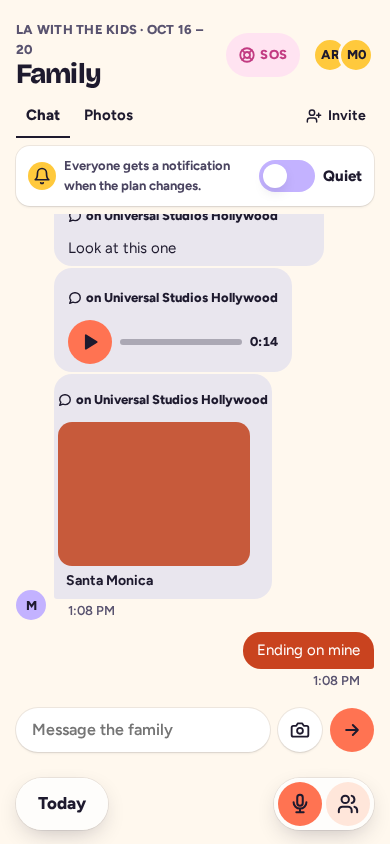
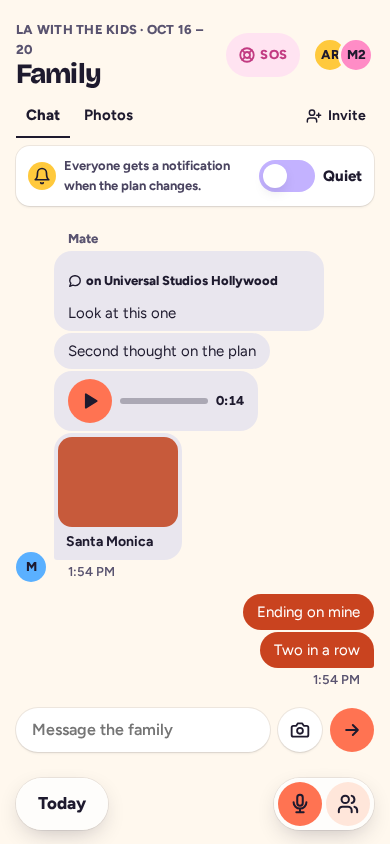
F-178: shared runs.js for the plan pane and Earlier, tag once per run, bigger panel bubbles, more tests

diff --git a/assets/js/thread.js b/assets/js/thread.js
@@ -107,22 +107,8 @@
     old._adopt = true;                                    // delivered from now on, whatever the reply does
     adopt(old, fresh);
   }
-  // Runs (F-178): which messages are the first and last of a run from one person (data-by; a plan change or another person ends it). The server draws the same classes
-  // (tab_family.fragment); this keeps them right when a message arrives, is sent here or "Earlier" puts older ones above, so every one of those is one watch on the list.
-  function runs() {
-    var prev = null;
-    Array.prototype.forEach.call(thread.children, function (el) {
-      if (!el.classList.contains("ft-msg")) { prev = null; return; }
-      if (prev) prev.classList.toggle("ft-last", prev.getAttribute("data-by") !== el.getAttribute("data-by"));
-      el.classList.toggle("ft-first", !prev || prev.getAttribute("data-by") !== el.getAttribute("data-by"));
-      el.classList.add("ft-last");
-      prev = el;
-    });
-  }
-  runs();
-  var watch = new MutationObserver(runs);
-  watch.observe(thread, { childList: true });
-  undo.push(function () { watch.disconnect(); });
+  var runs = function () { if (window.GA && GA.runs) GA.runs.fix(thread); };      // (assets/js/runs.js: the first and last of each run; it watches the list too)
+  if (window.GA && GA.runs) { GA.runs.watch(thread); undo.push(function () { if (thread._runs) { thread._runs.disconnect(); thread._runs = null; } }); }
   function merge(html, n, mine) {
     if (!html.trim() || n <= last) return;
     var stick = mine || nearBottom();
@@ -190,7 +176,7 @@
     var bub = document.createElement("div"); bub.className = "ft-bub"; bub.textContent = value;
     var state = document.createElement("span"); state.className = "ft-time ft-state"; state.textContent = "Sending";
     stack.appendChild(bub); stack.appendChild(state); el.appendChild(stack);
-    el.setAttribute("data-by", "me");
+    el.setAttribute("data-by", "me|" + (form && form.elements.act ? form.elements.act.value : "") + "|" + (form && form.elements.part ? form.elements.part.value : ""));
     el.setAttribute("data-text", value);
     el.setAttribute("data-cid", newId());
     return el;

diff --git a/assets/js/day_family.js b/assets/js/day_family.js
@@ -139,14 +139,15 @@
     if (!b || !t || !first || b.disabled) return;
     e.preventDefault();
     b.disabled = true;
-    var high = t.scrollHeight, top = t.scrollTop;
+    var rel = function () { return first.getBoundingClientRect().top - t.getBoundingClientRect().top; }, seen = rel();      // where the oldest message shown now sits: it stays there (a name or a time line it loses to the regrouping is above or inside it)
     fetch(b.dataset.older + '&before=' + encodeURIComponent(first.dataset.n), { credentials: 'same-origin', headers: { Accept: 'text/html' } }).then(function (r) {
       if (!r.ok) throw new Error('no earlier');
       return r.text().then(function (h) { return { h: h, more: r.headers.get('X-Thread-More') === '1' }; });
     }).then(function (got) {
       if (!t.isConnected) return;
       t.insertBefore(parse(got.h), t.firstChild);
-      t.scrollTop = top + (t.scrollHeight - high);
+      if (window.GA && GA.runs) GA.runs.fix(t);      // (F-178: the older page may end with the person who wrote the first message shown: regroup before the scroll is put back)
+      t.scrollTop += rel() - seen;
       if (got.more) b.disabled = false; else { b.remove(); }
     }, function () { b.disabled = false; });
   });
@@ -246,6 +247,7 @@
       planBusy = false;
       if (!got || !msgs.isConnected || !got.t.trim()) return;
       var near = pp.scrollHeight - pp.scrollTop - pp.clientHeight < 160, added = 0, nodes = parse(got.t);
+      if (window.GA && GA.runs) GA.runs.watch(msgs);      // (F-178)
       Array.prototype.slice.call(nodes.children).forEach(function (n) {
         var id = n.getAttribute('data-n');
         if (id && msgs.querySelector('[data-n="' + id + '"]')) return;      // already here (mine, just sent)

diff --git a/assets/js/runs.js b/assets/js/runs.js
@@ -1,0 +1,26 @@
+/* Runs in a chat (F-178): which messages are the first and last of a run from one person (data-by: who, plan and part; a plan change or anyone else ends it). The server draws the same
+   classes (tab_family.fragment); this keeps them right wherever a script adds or moves messages: thread.js (the Family tab, a plan's chat, the panel's Family), and the plan pane's own
+   chat (day_dock.js, day_family.js). GA.runs.fix(list) regroups now; GA.runs.watch(list) does it after every change to the list's children (once per list; it ends with the list). */
+(function () {
+  "use strict";
+  var GA = window.GA = window.GA || {};
+  if (GA.runs) return;
+  function fix(list) {
+    var prev = null;
+    Array.prototype.forEach.call(list.children, function (el) {
+      if (!el.classList.contains("ft-msg")) { prev = null; return; }
+      var same = prev && prev.getAttribute("data-by") === el.getAttribute("data-by");
+      if (prev) prev.classList.toggle("ft-last", !same);
+      el.classList.toggle("ft-first", !same);
+      el.classList.add("ft-last");
+      prev = el;
+    });
+  }
+  function watch(list) {
+    if (!list || list._runs) return;
+    list._runs = new MutationObserver(function () { fix(list); });
+    list._runs.observe(list, { childList: true });
+    fix(list);
+  }
+  GA.runs = { fix: fix, watch: watch };
+})();

diff --git a/assets/css/day_family.css b/assets/css/day_family.css
@@ -29,7 +29,9 @@
   /* the chat: the Family tab's bubbles, in the panel's colours; this list is the one that scrolls (thread.js scrolls it to its newest message) */
   .cz .cz-fam-msgs { flex: 1 1 auto; min-height: 6rem; overflow-y: auto; overscroll-behavior: contain; padding: 0.25rem 0; scrollbar-width: thin; }
   .cz .cz-fam-msgs .ft-msg { max-width: 92%; }
-  .cz .cz-fam-msgs .ft-bub { font-size: var(--cz-body); }
+  .cz .cz-fam-msgs :is(.ft-bub, .ft-cap) { font-size: max(var(--cz-body), 1.0833rem); }
+  .cz .cz-fam-msgs .ft-bub { padding: 0.625rem 1rem; line-height: 1.4; }
+  .cz .cz-fam-msgs :is(.ft-nm, .ft-time) { font-size: var(--cz-small); }
   .cz .cz-fam .cz-pp-none { flex-shrink: 0; margin: 0; }
   .cz .cz-fam-older { flex-shrink: 0; align-self: center; min-height: 4rem; padding: 0 1rem; border: 0; border-radius: var(--r-pill); background: transparent; font: inherit; font-size: var(--cz-small); font-weight: 800; color: var(--ink-2); cursor: pointer; }
   .cz .cz-fam-older:hover { background: var(--paper); color: var(--ink); }

diff --git a/assets/css/thread.css b/assets/css/thread.css
@@ -40,7 +40,7 @@
 .ft-msg:not(.ft-me).ft-last :is(.ft-bub, .ft-photo-bub) { border-bottom-left-radius: 0.1875rem; }      /* the tail: the corner by the avatar (or the edge) comes to a point */
 .ft-me.ft-last :is(.ft-bub, .ft-photo-bub) { border-bottom-right-radius: 0.1875rem; }
 .ft-nm { display: block; padding: 0 0.875rem 0.125rem; font-size: max(var(--text-min), 0.8125rem); font-weight: 800; color: var(--ink-3); }
-.ft-msg:not(.ft-first) .ft-nm { display: none; }
+.ft-msg:not(.ft-first) :is(.ft-nm, .ft-on) { display: none; }
 .ft-time { display: block; padding: 0.125rem 0.875rem 0; font-size: max(var(--text-min), 0.75rem); font-weight: 600; color: var(--ink-3); }      /* quiet: small, under the run's last bubble; the others show it as a tooltip (title) */
 .ft-msg:not(.ft-last):not(.is-sending):not(.is-failed) .ft-time { display: none; }
 .ft-photo { display: block; width: 100%; max-width: 12rem; border-radius: 0.875rem; }

diff --git a/assets/css/day_dock.css b/assets/css/day_dock.css
@@ -186,7 +186,9 @@
 
   .cz .cz-pp-msgs { padding-top: 0.25rem; }
   .cz .cz-pp-msgs .ft-msg { max-width: 92%; }
-  .cz .cz-pp-msgs .ft-bub { font-size: var(--cz-body); }
+  .cz .cz-pp-msgs :is(.ft-bub, .ft-cap) { font-size: max(var(--cz-body), 1.0833rem); }
+  .cz .cz-pp-msgs .ft-bub { padding: 0.625rem 1rem; line-height: 1.4; }
+  .cz .cz-pp-msgs :is(.ft-nm, .ft-time) { font-size: var(--cz-small); }
 
   .cz .cz-pp-foot { flex-shrink: 0; display: flex; flex-wrap: wrap; align-items: center; gap: 0.5rem; margin: 0 0.75rem 0.75rem; min-height: 3rem; padding: 0.25rem 0.375rem 0.25rem 1rem; border-radius: 1.5rem; background: var(--paper); box-shadow: inset 0 0 0 0.0625rem var(--line); }
   .cz .cz-pp-text { flex: 1; min-width: 0; min-height: 2.5rem; padding: 0; border: 0; background: transparent; font: 600 var(--cz-body) var(--font-body); color: var(--ink); }

diff --git a/assets/js/day_dock.js b/assets/js/day_dock.js
@@ -280,6 +280,7 @@
       var msgs = document.getElementById('cz-pp-msgs'), quiet = document.getElementById('cz-pp-quiet'), pane = f.previousElementSibling;
       if (msgs) {
         var nodes = parse(got.t);
+        if (window.GA && GA.runs) GA.runs.watch(msgs);      // (F-178: the new bubble joins or starts a run)
         while (nodes.firstChild) msgs.appendChild(nodes.firstChild);
         if (got.last) { msgs.dataset.last = got.last; f.elements.since.value = got.last; }
       }

diff --git a/tests_browser/test_bubbles_runs.py b/tests_browser/test_bubbles_runs.py
@@ -1,0 +1,94 @@
+"""F-178: where runs are kept right by script after the first draw: the plan pane's own chat (day_dock.js, day_family.js), "Earlier messages", a failed send's state line, and a plan change
+line ending a run. Helpers and fixtures are test_bubbles.py's."""
+from playwright.sync_api import expect
+
+from tests_browser.helpers import seed_plan
+from tests_browser.test_bubbles import CORAL_DEEP, contrast, desk, page_colour, runs, say, seen, shot  # noqa: F401 - fixtures
+from tests_browser.test_day_grid import open_day
+from tests_browser.test_family_panel import SATURDAY, dock, mates, open_family, park, thread  # noqa: F401 - fixtures
+from tests_browser.test_thread import pair  # noqa: F401 - fixture
+from tests_browser.test_trip_canvas import canvas_page, model  # noqa: F401 - fixtures
+
+
+def open_plan_pane(desk):
+    open_day(desk, SATURDAY)
+    act = park(desk)
+    b = desk.locator(f'.cz-gb[data-act="{act}"]')
+    b.scroll_into_view_if_needed()
+    box = b.bounding_box()
+    desk.mouse.click(box["x"] + box["width"] * 0.7, box["y"] + min(box["height"] * 0.6, 90))
+    expect(desk.locator("#cz-pp-msgs")).to_be_visible()
+    return act, desk.locator("#cz-pp-msgs")
+
+
+def test_the_plan_panes_own_chat_groups_runs_for_polled_and_sent_messages(desk, mates):
+    mate = mates(desk)
+    act, th = open_plan_pane(desk)
+    for i, t in enumerate(("Plan one", "Plan two", "Plan three"), 1):
+        mate.say(t, act=act)
+        expect(th.locator(".ft-bub")).to_have_count(i, timeout=9000)                     # polled in one at a time
+    assert runs(th) == ["ft-first", "", "ft-last"]
+    assert [s["name"] for s in seen(th.locator(".ft-msg"))] == [True, False, False]
+    for t in ("Mine one", "Mine two"):
+        desk.locator("#cz-dock .cz-pp-text").fill(t)
+        desk.locator("#cz-dock .cz-pp-send").click()
+        expect(th.get_by_text(t)).to_be_visible()
+    assert runs(th) == ["ft-first", "", "ft-last", "ft-first", "ft-last"]
+    st = seen(th.locator(".ft-me"))
+    assert [s["tail"] for s in st] == [False, True] and [s["time"] for s in st] == [False, True], st
+    assert [s["avatar"] for s in seen(th.locator(".ft-msg:not(.ft-me)"))] == [False, False, True]
+    shot(desk, "plan-pane-1440.png")
+
+
+def test_earlier_messages_from_the_same_person_regroup_without_the_view_jumping(desk, mates):
+    mate = mates(desk)
+    open_day(desk, SATURDAY)
+    for i in range(1, 71):
+        mate.say(f"Message {i:02d}")
+    open_day(desk, SATURDAY)
+    open_family(desk)
+    th = thread(desk)
+    expect(th.locator(".ft-bub")).to_have_count(30)
+    th.evaluate("e => { e.scrollTop = 0; }")                                                  # reading the oldest one shown
+    first = th.locator(".ft-msg").first
+    n = first.get_attribute("data-n")
+    top = th.bounding_box()["y"]
+    before = first.bounding_box()["y"] - top
+    dock(desk).locator("#ft-older").click()
+    expect(th.locator(".ft-bub")).to_have_count(60)
+    after = th.locator(f'.ft-msg[data-n="{n}"]').bounding_box()["y"] - th.bounding_box()["y"]
+    assert [s["name"] for s in seen(th.locator(".ft-msg"))].count(True) == 1               # one run of sixty: the name once, at the very first
+    r = runs(th)
+    assert r[0] == "ft-first" and r[-1] == "ft-last" and r.count("ft-first") == 1
+    assert abs(after - before) < 2, (before, after)                                           # what was being read has not moved
+
+
+def test_a_failed_send_shows_its_state_line_under_the_bubble(pair, base_url):
+    ari, mate = pair()
+    ari.route("**/trip/family/message", lambda route: route.abort())
+    ari.locator("#ft-text").fill("This will not go")
+    ari.locator("#ft-send").click()
+    bubble = ari.locator("#ft-thread .ft-me.is-failed")
+    expect(bubble.locator(".ft-state")).to_have_text("Not sent")
+    b, s = bubble.locator(".ft-bub").bounding_box(), bubble.locator(".ft-state").bounding_box()
+    assert s["y"] >= b["y"] + b["height"] - 1, (b, s)                                       # the line sits under the bubble, not inside it
+    fg = bubble.locator(".ft-state").evaluate("e => getComputedStyle(e).color.match(/[\\d.]+/g).slice(0, 3).map(Number)")
+    assert fg == CORAL_DEEP and contrast(fg, page_colour(bubble.locator(".ft-state"))) >= 4.5
+    expect(bubble.get_by_role("button", name="Retry")).to_be_visible()
+
+
+def test_a_plan_change_line_ends_a_run_so_the_next_message_has_the_name_and_tail_again(pair, base_url):
+    ari, mate = pair()
+    th = ari.locator("#ft-thread")
+    say(mate.context, base_url, "Before one")
+    say(mate.context, base_url, "Before two")
+    expect(th.locator(".ft-msg")).to_have_count(2, timeout=9000)
+    seed_plan(ari.context.request, base_url, **{"id": "a1", "day": "1", "start": "10:00", "end": "11:00", "title": "Griffith Observatory", "kind": "culture"})
+    expect(th.locator(".ft-sys")).to_have_count(1, timeout=9000)
+    say(mate.context, base_url, "After the change")
+    expect(th.locator(".ft-msg")).to_have_count(3, timeout=9000)
+    assert runs(th) == ["ft-first", "ft-last", "ft-first+ft-last"]
+    st = seen(th.locator(".ft-msg"))
+    assert [s["name"] for s in st] == [True, False, True] and [s["tail"] for s in st] == [False, True, True], st
+    ari.reload()
+    assert runs(th) == ["ft-first", "ft-last", "ft-first+ft-last"]                          # the server draws the same

diff --git a/gitaway/pages/tripcanvas.py b/gitaway/pages/tripcanvas.py
@@ -30,7 +30,7 @@ from gitaway.pages.around_ui import around_url
 from gitaway.pages.plantalk import talk_badge   # F-091: the chat badge on a plan and on a part
 
 HEAD = (*pickers.HEAD, Link(rel="stylesheet", href="/assets/css/help.css"), *passes_ui.HEAD, Link(rel="stylesheet", href="/assets/css/trip_canvas.css"), Link(rel="stylesheet", href="/assets/css/day_grid.css"), Link(rel="stylesheet", href="/assets/css/plantalk.css"), Link(rel="stylesheet", href="/assets/css/day_card.css"), Link(rel="stylesheet", href="/assets/css/thread.css"), Link(rel="stylesheet", href="/assets/css/day_dock.css"), Link(rel="stylesheet", href="/assets/css/week_desk.css"), Link(rel="stylesheet", href="/assets/css/day_mouse.css"), Link(rel="stylesheet", href="/assets/css/day_family.css"), Link(rel="stylesheet", href="/assets/css/day_ask.css"), Link(rel="stylesheet", href="/assets/css/day_phone.css"), Link(rel="stylesheet", href="/assets/css/week_cards.css"))   # pickers: the add-a-step sheet has a time field (F-082)
-SCRIPTS = ("/assets/js/vendor/idiomorph.js", "/assets/js/canvas_core.js", "/assets/js/canvas_filters.js", "/assets/js/canvas_writes.js", "/assets/js/canvas_sos.js", "/assets/js/canvas_gestures.js", "/assets/js/canvas_tick.js", "/assets/js/day_grid.js", "/assets/js/day_menu.js", "/assets/js/day_more.js", "/assets/js/day_new.js", "/assets/js/day_fold.js", "/assets/js/day_card.js", "/assets/js/day_dock.js", "/assets/js/day_mouse.js", "/assets/js/day_chipdrop.js", "/assets/js/week_drag.js", "/assets/js/day_keys.js", "/assets/js/day_family.js", "/assets/js/day_ask.js")
+SCRIPTS = ("/assets/js/vendor/idiomorph.js", "/assets/js/runs.js", "/assets/js/canvas_core.js", "/assets/js/canvas_filters.js", "/assets/js/canvas_writes.js", "/assets/js/canvas_sos.js", "/assets/js/canvas_gestures.js", "/assets/js/canvas_tick.js", "/assets/js/day_grid.js", "/assets/js/day_menu.js", "/assets/js/day_more.js", "/assets/js/day_new.js", "/assets/js/day_fold.js", "/assets/js/day_card.js", "/assets/js/day_dock.js", "/assets/js/day_mouse.js", "/assets/js/day_chipdrop.js", "/assets/js/week_drag.js", "/assets/js/day_keys.js", "/assets/js/day_family.js", "/assets/js/day_ask.js")
 RANK = {"week": 0, "day": 1, "block": 2, "step": 3}
 PART_TINTS = ("sky", "sun", "grape", "bubble", "mint")
 MAX_FACES = 5

diff --git a/gitaway/pages/tab_family.py b/gitaway/pages/tab_family.py
@@ -27,7 +27,7 @@ from gitaway.pages import photos as photos_ui
 TITLE = "Family"
 TWO = "Everyone, one chat."
 HEAD = (*photos_ui.HEAD, Link(rel="stylesheet", href="/assets/css/plantalk.css"))
-SCRIPTS = ("/assets/js/thread.js", "/assets/js/photos.js", "/assets/js/voicenote.js")
+SCRIPTS = ("/assets/js/runs.js", "/assets/js/thread.js", "/assets/js/photos.js", "/assets/js/voicenote.js")
 POLL_MS = 5000
 QUIET_ON = "Quiet: no notifications from the family thread."
 QUIET_OFF = "Everyone gets a notification when the plan changes."
@@ -72,10 +72,10 @@ def _on(it, labels):
 
 
 def _run_key(it, me):
-    """Who a message is from, for grouping: "me", the author's id, or None for a line that is not a bubble (a plan change, a photo that cannot be drawn). thread.js `runs()` does the same on the page."""
+    """Who a message is from and in which chat, for grouping: "me" or the author's id, then the plan and part ("me||" for the whole trip), or None for a line that is not a bubble (a plan change, a photo that cannot be drawn). assets/js/runs.js does the same on the page."""
     if it["kind"] == "change" or (it["kind"] == "photo" and not familythread._image_url(it["payload"].get("url", ""))):
         return None
-    return "me" if it["author"] == me else it["author"]
+    return f'{"me" if it["author"] == me else it["author"]}|{it["payload"].get("act") or ""}|{it["payload"].get("part") or ""}'     # (a run is one person in one chat: the plan tag is drawn once per run)
 
 
 def item_view(it, me, zone, labels=None, run="ft-first ft-last"):

diff --git a/tests/test_family_panel_fast.py b/tests/test_family_panel_fast.py
@@ -57,8 +57,8 @@ def test_a_plan_chat_pages_back_too(crew, chats):
         say(ed, f"c{i:02d}", act=stroll)
     html = crew[0].get(f"/trip/family/panel?thread={stroll}&day=1").text
     thread = html.split('id="ft-thread"')[1].split('id="ft-empty"')[0]
-    assert re.findall(r"c\d\d", thread)[0] == "c11" and len(re.findall(r"c\d\d", thread)) == 30
+    assert re.findall(r">\s*(c\d\d)\s*<", thread)[0] == "c11" and len(re.findall(r">\s*(c\d\d)\s*<", thread)) == 30
     url = unescape(re.search(r'data-older="([^"]+)"', html).group(1))
     first = re.search(r'data-n="(\d+)"', thread).group(1)
     r = crew[0].get(f"{url}&before={first}", headers={"Accept": "text/html"})
-    assert re.findall(r"c\d\d", r.text)[0] == "c01" and len(re.findall(r"c\d\d", r.text)) == 10 and r.headers["x-thread-more"] == "0"
+    assert re.findall(r">\s*(c\d\d)\s*<", r.text)[0] == "c01" and len(re.findall(r">\s*(c\d\d)\s*<", r.text)) == 10 and r.headers["x-thread-more"] == "0"

diff --git a/gitaway/pages/plantalk.py b/gitaway/pages/plantalk.py
@@ -25,7 +25,7 @@ from gitaway.icons import icon
 from gitaway.pages import tab_family
 
 HEAD = (*tab_family.photos_ui.HEAD, Link(rel="stylesheet", href="/assets/css/plantalk.css"))
-SCRIPTS = ("/assets/js/thread.js", "/assets/js/voicenote.js", "/assets/js/plantalk.js")
+SCRIPTS = ("/assets/js/runs.js", "/assets/js/thread.js", "/assets/js/voicenote.js", "/assets/js/plantalk.js")
 PATHS = ("/trip/talk/photo", "/trip/talk/voice")
 LIMITS = {"/trip/talk/photo": photos.MAX_BYTES, "/trip/talk/voice": voicenotes.MAX_BYTES}
 OVERHEAD = 100_000   # the form's own fields around the file
